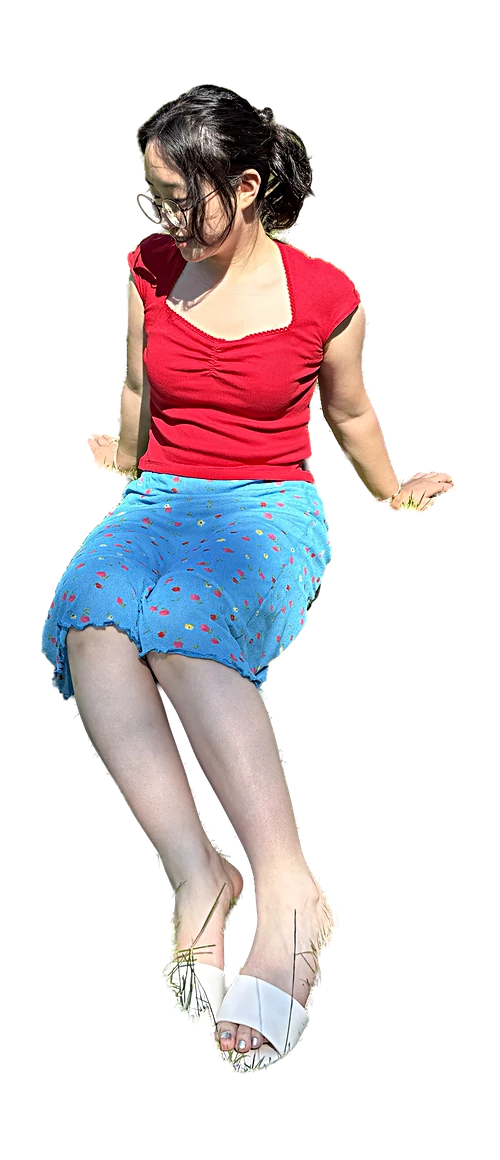
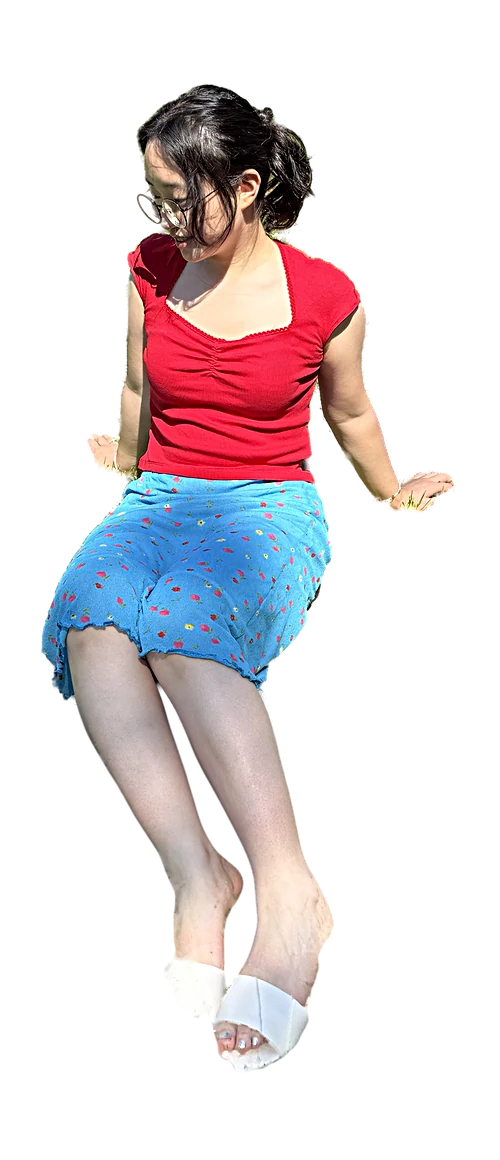
fix: take the grass off the figurine's feet
The owner stood in grass, so the cut kept blades across their feet and
sandals and a hairy outline where tufts were. The new `--grass SHARE`
option (tools/solids/grass.py) cleans that share of the figure from the
soles up: thin lines much darker than round them, and anything green,
are painted over from the colours beside them; strands sticking out of
the outline are opened away and the ragged outline rounded (blur, then
cut again at its middle). A pink shadow (toe gaps) and a white sandal's
faint bluish seam are kept. It fades in over 30 rows, so nothing above
the feet changes. Assets regenerated with --grass 0.38 (short of the
dress, whose print has green in it).

Tests: test_grass.py (blades painted over, toe gap and seam kept, strand
removed with the outline kept, only the share cleaned, input unchanged,
share parsing), the --grass command line end to end, and the served
picture's feet showing no green (140 px on the old picture, 0 now).

Changed region(s): [[0.33, 0.7448, 0.57, 0.931], [0.57, 0.7759, 0.66, 0.9]]

diff --git a/tools/solids/grass.py b/tools/solids/grass.py
@@ -1,0 +1,105 @@
+"""Grass taken off a cut-out's feet.
+
+A photo of someone standing in grass has blades across their feet and tufts round them that the cut keeps as
+part of them: thin lines much darker than the skin and sandals behind them, or green, and a ragged, hairy
+outline where the tufts were. In the figure's bottom part the blades are painted over in the colour round them
+and its outline is rounded off. Not taken for grass: a pink shadow (between toes, round a nail), which is the
+skin's own, and a faint bluish line on a white sandal (its seam, its folds). Where grass hid part of a foot,
+that part is filled in from what is next to it.
+
+Pixel sizes are in the cut, about WORK_LENGTH (1500 px) long.
+"""
+from __future__ import annotations
+
+import argparse
+import math
+
+import numpy as np
+from scipy import ndimage
+
+FINE = 3  # px: lines narrower than about twice this, darker than round them, may be blades
+DARKER = 30.0  # levels darker than round it that a blade is at least
+PINK = 28.0  # a shadow whose red exceeds its green by this much more than its green exceeds its blue is skin's
+BLUISH = 10.0  # levels of blue over red: a white sandal's shade, its seam or a fold ...
+SANDAL_LINE = 80.0  # ... unless it is darker than round it by this much: then it is a blade on the sandal
+GREEN_HUE = (38.0, 170.0)  # degrees: hues from yellow-green to blue-green (skin keeps below some 30) ...
+GREEN_CHROMA = 12.0  # ... at least this colourful (a grey has no hue)
+SPREAD = 1  # px: a blade's mask grows this much, to take its soft edge too
+STRAND = 5  # px: strands narrower than about twice this, sticking out of the outline, go
+ROUND = 4.0  # px: the outline's blur, before it is cut again at its middle (rounds off what tufts left ragged)
+EDGE_RAMP = 0.25  # of the blurred alpha: the width of the recut's antialiased edge
+FADE = 30  # px: above the cleaned share, the clean-up fades out over this many rows
+FILL_SCALES = (1.5, 3.0, 6.0, 12.0, 24.0, 48.0)  # px: paint over from the nearest colours first, then further off
+FILL_COVER = 0.05  # share of known pixels in reach at a scale for that scale to give a pixel its colour
+
+
+def parse_share(text: str) -> float:
+    """A share of the figure's length, above 0 and at most 1; for argparse, so a bad value is a usage error."""
+    try:
+        share = float(text)
+    except ValueError:
+        share = math.nan
+    if not (math.isfinite(share) and 0 < share <= 1):
+        raise argparse.ArgumentTypeError(f"the share of the figure to take the grass off is above 0 and at most 1, not {text!r}")
+    return share
+
+
+def _disk(radius: int) -> np.ndarray:
+    yy, xx = np.mgrid[-radius:radius + 1, -radius:radius + 1]
+    return xx**2 + yy**2 <= radius**2
+
+
+def _hue(rgb: np.ndarray) -> np.ndarray:
+    """Each pixel's hue in degrees (0 for a grey)."""
+    r, g, b = (rgb[..., i] for i in range(3))
+    top, chroma = rgb.max(axis=-1), np.ptp(rgb, axis=-1)
+    with np.errstate(divide="ignore", invalid="ignore"):
+        hue = np.where(top == r, (60 * (g - b) / chroma) % 360, np.where(top == g, 60 * (b - r) / chroma + 120, 60 * (r - g) / chroma + 240))
+    return np.nan_to_num(hue)
+
+
+def blades(rgb: np.ndarray, alpha: np.ndarray) -> np.ndarray:
+    """Where grass lies over the figure (bool): thin dark lines that are neither skin's pink shadow nor a sandal's
+    faint seam, and anything green; grown by SPREAD. Past the figure's middle (alpha 0.5) a pixel's darkness is its
+    nearest inside pixel's."""
+    r, g, b = (rgb[..., i] for i in range(3))
+    light = rgb @ np.array([0.2126, 0.7152, 0.0722])
+    _, (iy, ix) = ndimage.distance_transform_edt(alpha <= 0.5, return_indices=True)
+    light = light[iy, ix]  # outside, the light of the figure beside it: its own outline is no dark line
+    darker = ndimage.grey_closing(light, footprint=_disk(FINE)) - light
+    pink = (r - g) > (g - b) + PINK
+    seam = (b > r + BLUISH) & (darker < SANDAL_LINE)
+    hue = _hue(rgb)
+    green = (hue > GREEN_HUE[0]) & (hue < GREEN_HUE[1]) & (np.ptp(rgb, axis=-1) > GREEN_CHROMA)
+    return ndimage.binary_dilation(((darker > DARKER) & ~pink & ~seam) | green, _disk(SPREAD))
+
+
+def painted_over(rgb: np.ndarray, where: np.ndarray, known: np.ndarray) -> np.ndarray:
+    """`rgb` with the pixels `where` painted in the colours of the `known` pixels nearest them."""
+    out, todo = rgb.copy(), where.copy()
+    for sigma in FILL_SCALES:
+        weight = ndimage.gaussian_filter(known.astype(float), sigma)
+        reach = todo & (weight > FILL_COVER)
+        colour = np.stack([ndimage.gaussian_filter(rgb[..., i] * known, sigma) for i in range(3)], axis=-1)
+        out[reach] = colour[reach] / weight[reach, None]
+        todo &= ~reach
+    return out
+
+
+def rounded(alpha: np.ndarray) -> np.ndarray:
+    """The outline with its thin strands cut off and its ragged stretches rounded (a notch fills in a little)."""
+    opened = ndimage.grey_opening(alpha, footprint=_disk(STRAND))
+    return np.clip((ndimage.gaussian_filter(opened, ROUND) - 0.5) / EDGE_RAMP + 0.5, 0.0, 1.0)
+
+
+def without_grass(rgba: np.ndarray, share: float) -> np.ndarray:
+    """The upright cut (RGBA, alpha 0–255) with the grass taken off the bottom `share` of the figure's length."""
+    rgb, alpha = np.asarray(rgba, float)[..., :3], np.asarray(rgba, float)[..., 3] / 255
+    rows, _ = np.nonzero(alpha > 0.5)
+    start = rows.max() - share * (rows.max() - rows.min())
+    weight = np.clip((np.arange(alpha.shape[0]) - start) / FADE, 0.0, 1.0)[:, None]
+    out_alpha = alpha + weight * (rounded(alpha) - alpha)
+    grass = blades(rgb, alpha) & (weight > 0) & ((alpha > 0) | (out_alpha > 0))
+    painted = painted_over(rgb, grass, (alpha > 0.95) & ~grass)
+    out_rgb = rgb + weight[..., None] * (painted - rgb)
+    return np.concatenate([out_rgb, out_alpha[..., None] * 255], axis=-1)

diff --git a/tools/tests/test_grass.py b/tools/tests/test_grass.py
@@ -1,0 +1,87 @@
+import argparse
+
+import numpy as np
+import pytest
+from scipy import ndimage
+
+from solids.grass import parse_share, without_grass
+
+SKIN = (240.0, 215.0, 200.0)
+SANDAL = (220.0, 232.0, 246.0)
+DRY = (125.0, 119.0, 85.0)  # a dry blade, as on the owner's ankle
+GREEN = (70.0, 140.0, 40.0)
+DARK = (89.0, 74.0, 78.0)  # a blade in shadow
+TOE_GAP = (142.0, 86.0, 82.0)  # the pink shadow between two toes
+SEAM = (186.0, 200.0, 221.0)  # the sandal strap's faint seam
+
+
+def feet_scene():
+    """A leg (x 40–160, y 0–300) on nothing, a sandal across its foot (y 200–260) with its seam at x 120, a toe gap
+    at x 70 below it, a strand of grass sticking out of its left side, and three blades across it."""
+    yy, xx = np.mgrid[0:300, 0:200]
+    leg = (xx >= 40) & (xx < 160)
+    strand = (yy >= 150) & (yy < 152) & (xx >= 10) & (xx < 40)
+    rgb = np.zeros((300, 200, 3)) + SKIN
+    rgb[(yy >= 200) & (yy < 260)] = SANDAL
+    rgb[(yy >= 200) & (yy < 260) & (np.abs(xx - 120) <= 1)] = SEAM
+    rgb[(yy >= 262) & (np.abs(xx - 70) <= 1)] = TOE_GAP
+    blades = {
+        "dry": np.abs((xx - 50) - (yy - 120)) <= 1,  # diagonal
+        "green": (np.abs(yy - 180) <= 1) & (xx >= 60) & (xx < 150),
+        "dark": (np.abs(xx - 100) <= 1) & (yy >= 140) & (yy < 280),
+    }
+    for name, colour in (("dry", DRY), ("green", GREEN), ("dark", DARK)):
+        rgb[blades[name] & leg & (yy >= 110)] = colour
+    rgb[strand] = GREEN
+    alpha = (leg | strand).astype(float)
+    return np.concatenate([rgb, alpha[..., None] * 255], axis=-1), {k: v & leg & (yy >= 110) for k, v in blades.items()}
+
+
+def test_blades_across_the_feet_are_painted_over_in_the_colour_round_them():
+    rgba, blades = feet_scene()
+    out = without_grass(rgba, share=0.7)
+    on_skin = (np.arange(300)[:, None] >= 130) & (np.arange(300)[:, None] < 190)  # clear of the fade above the feet and the sandal
+    for name, blade in blades.items():
+        off = np.abs(out[..., :3][blade & on_skin] - SKIN).max()
+        assert off < 12, f"the {name} blade still shows on the skin, {off:.0f} levels off it"
+    away = ~np.any([ndimage.binary_dilation(b, iterations=6) for b in blades.values()], axis=0)
+    away &= rgba[..., 3] == 255
+    away[140:160, :50] = False  # where the strand was
+    assert (out[..., :3][away] == rgba[..., :3][away]).all(), "the skin and sandal away from the blades are as they were"
+
+
+def test_a_toe_gap_s_pink_shadow_and_a_sandal_s_faint_seam_stay():
+    rgba, _ = feet_scene()
+    out = without_grass(rgba, share=0.7)
+    for name, where in (("toe gap", np.s_[265:295, 70]), ("seam", np.s_[205:255, 120])):
+        assert (out[where][:, :3] == rgba[where][:, :3]).all(), f"the {name} was taken for grass"
+
+
+def test_a_strand_sticking_out_of_the_outline_goes_but_the_outline_stays():
+    rgba, _ = feet_scene()
+    a = without_grass(rgba, share=0.7)[..., 3] / 255
+    assert a[150:152, 10:34].max() < 0.05, "the strand of grass is left sticking out"
+    rows = np.r_[120:140, 230:250]
+    assert a[rows, 44].min() > 0.99 and a[rows, 36].max() < 0.01, "the leg's straight side is kept where it was"
+
+
+def test_only_the_bottom_share_of_the_figure_is_cleaned():
+    rgba, blades = feet_scene()
+    out = without_grass(rgba, share=0.3)  # from y 210 down
+    assert (out[:200] == rgba[:200]).all(), "above the feet nothing changes"
+    rows = np.arange(300)[:, None]
+    assert np.abs(out[..., :3][blades["dark"] & (rows >= 245) & (rows < 258)] - SANDAL).max() < 12, "the feet are cleaned"
+
+
+def test_the_input_is_not_changed():
+    rgba, _ = feet_scene()
+    before = rgba.copy()
+    without_grass(rgba, share=0.7)
+    assert (rgba == before).all()
+
+
+def test_the_share_of_the_figure_to_clean_is_a_number_above_0_up_to_1():
+    assert parse_share("0.38") == 0.38 and parse_share("1") == 1.0
+    for bad in ("0", "-0.1", "1.5", "nan", "inf", "x", ""):
+        with pytest.raises(argparse.ArgumentTypeError):
+            parse_share(bad)

diff --git a/tools/prepare_figurine.py b/tools/prepare_figurine.py
@@ -1,6 +1,7 @@
 """The owner's figurine in its clear bag, from the picture they chose.
 
     python tools/prepare_figurine.py <chosen.png> assets/figurine [--turn auto|0|90|-90|180] [--u2net PATH]
+        [--lens X,Y,A,B,DEG] [--grass SHARE]
 
 Cut the figure out of its background: a colour key on a plain backdrop (held to the
 u2net model's outline when it is given); on a busy one, such as a photo of the owner on
@@ -44,6 +45,7 @@ from solids.cutout import (  # noqa: E402
     without_specks,
 )
 from solids.finish import fit_canvas, sharpen  # noqa: E402
+from solids.grass import parse_share, without_grass  # noqa: E402
 from solids.lens import Lens, drawn_lens, parse_lens  # noqa: E402
 from solids.relief import relief  # noqa: E402
 from solids.wrap import bag  # noqa: E402
@@ -143,9 +145,10 @@ def turned(rgba: np.ndarray, turn: str) -> np.ndarray:
     return np.rot90(rgba, quarters)
 
 
-def cut_out(source: Path, u2net: Path | None, turn: str, lenses: Sequence[Lens] = ()) -> np.ndarray:
+def cut_out(source: Path, u2net: Path | None, turn: str, lenses: Sequence[Lens] = (), grass: float = 0.0) -> np.ndarray:
     """The figure, cut out, its edge cleaned, cropped and stood upright: RGBA float. `lenses` (in the photo's
-    pixels, the right way up) are the far lenses of glasses the cut left out, drawn back behind the figure."""
+    pixels, the right way up) are the far lenses of glasses the cut left out, drawn back behind the figure; with
+    `grass` (a share of its length), the grass is taken off that much of the figure from its soles up."""
     picture = load(source)
     pixels = np.asarray(picture)
     if is_plain(pixels):
@@ -164,7 +167,8 @@ def cut_out(source: Path, u2net: Path | None, turn: str, lenses: Sequence[Lens] 
         colour, alpha = drawn_lens(colour, alpha, rgb, lens.moved(origin, scale))
     ys, xs = np.nonzero(alpha > EDGE)
     cut = np.concatenate([colour, alpha[..., None] * 255], axis=-1)[ys.min():ys.max() + 1, xs.min():xs.max() + 1]
-    return turned(cut, turn)
+    upright = turned(cut, turn)
+    return without_grass(upright, grass) if grass else upright
 
 
 def place(cut: np.ndarray) -> np.ndarray:
@@ -208,12 +212,15 @@ def main(argv: list[str] | None = None) -> int:
     parser.add_argument("--lens", type=parse_lens, action="append", default=[], metavar="X,Y,A,B,DEG",
                         help="a far lens of glasses the cut leaves out (it shows the background through it), to draw back: "
                              "its centre and semi-axes in the photo's pixels, the right way up, and its long axis's tilt in degrees")
+    parser.add_argument("--grass", type=parse_share, default=0.0, metavar="SHARE",
+                        help="take the grass off the figure's feet (blades across them, tufts round them) over this share of "
+                             "its length from the soles up, above 0 and at most 1 (default: none)")
     args = parser.parse_args(argv)
     if not args.chosen.exists():
         parser.error(f"no such picture: {args.chosen}")
     args.out.mkdir(parents=True, exist_ok=True)
 
-    figure = place(cut_out(args.chosen, args.u2net, args.turn, args.lens))
+    figure = place(cut_out(args.chosen, args.u2net, args.turn, args.lens, args.grass))
     level = figure_level(figure[..., 3] / 255, figure[..., :3])
     film, film_level = bag(figure.shape[1::-1], figure[..., 3], level, px=PX, figure_height=HEIGHT, clearance=CLEARANCE,
                            keep_off=head_room(figure[..., 3] / 255))

diff --git a/tools/tests/test_prepare_figurine.py b/tools/tests/test_prepare_figurine.py
@@ -141,6 +141,35 @@ def test_the_command_line_takes_a_lens_for_the_far_side_of_the_glasses(tmp_path,
     assert wire(made[0]) == 0 and wire(with_lens) > 300, f"{wire(with_lens)} px of wire"
 
 
+BLADE = (60.0, 60.0, 30.0)
+
+
+def bladed_png(tmp_path):
+    """The lilac figure with a blade of grass across its feet (its left end, which is turned to be its bottom),
+    the blade's ends sticking out past its outline."""
+    path = figure_png(tmp_path, LILAC)
+    rgb = np.asarray(Image.open(path)).copy()
+    rgb[100:300, 120:122] = BLADE
+    Image.fromarray(rgb).save(path)
+    return path
+
+
+def test_the_command_line_takes_the_grass_off_the_figure_s_feet(tmp_path):
+    blade = lambda pic: ((pic[..., 3] > 200) & (np.abs(pic[..., :3].astype(float) - BLADE).max(axis=-1) < 30)).sum()  # noqa: E731
+    pictures = {}
+    for name, extra in (("kept", []), ("off", ["--grass", "0.3"])):
+        assert pf.main([str(bladed_png(tmp_path)), str(tmp_path / name), *extra]) == 0
+        pictures[name] = np.asarray(Image.open(tmp_path / name / "figurine.webp"))
+    assert blade(pictures["kept"]) > 40, f"{blade(pictures['kept'])} px of blade without --grass"
+    assert blade(pictures["off"]) < 10, f"{blade(pictures['off'])} px of blade left with --grass"
+
+
+def test_the_command_line_refuses_a_share_of_grass_outside_0_to_1(tmp_path, capsys):
+    with pytest.raises(SystemExit):
+        pf.main([str(figure_png(tmp_path, LILAC)), str(tmp_path / "out"), "--grass", "1.5"])
+    assert "at most 1" in capsys.readouterr().err, "the error says what a share may be"
+
+
 def test_the_figure_s_top_is_level_but_for_its_rounded_edge_so_a_face_near_the_outline_is_not_sunk():
     yy, xx = np.mgrid[0:200, 0:200]
     head = (np.hypot(xx - 100, yy - 100) < 60).astype(float)  # 15 units across its radius

diff --git a/tools/tests/test_figurine_asset.py b/tools/tests/test_figurine_asset.py
@@ -1,0 +1,18 @@
+"""The figurine picture the site serves, as made from the owner's photo (see the README's command)."""
+from pathlib import Path
+
+import numpy as np
+from PIL import Image
+
+PICTURE = Path(__file__).resolve().parents[2] / "assets" / "figurine" / "figurine.webp"
+FEET = 0.3  # share of the figure's length, from its soles up (the dress, green-flowered, starts above some 0.4)
+
+
+def test_the_figurine_s_feet_show_no_grass():
+    pixels = np.asarray(Image.open(PICTURE).convert("RGBA")).astype(float)
+    rgb, alpha = pixels[..., :3], pixels[..., 3]
+    rows, _ = np.nonzero(alpha > 128)
+    feet = (alpha > 128) & (np.arange(alpha.shape[0])[:, None] >= rows.max() - FEET * (rows.max() - rows.min()))
+    r, g, b = (rgb[..., i] for i in range(3))
+    green = (g > r + 10) & (g > b + 10)  # skin, a white sandal and its shadows are never greener than red and blue
+    assert (green & feet).sum() < 20, f"{(green & feet).sum()} px of green grass on the figurine's feet"

diff --git a/README.md b/README.md
@@ -130,7 +130,7 @@ the head, so no glint crosses the face and no milky veil greys the photo.
    plain backdrop works too.
 2. Make the four pictures from it:
 
-       python tools/prepare_figurine.py F:/parcel-art/figure.jpg assets/figurine --u2net F:/portrait-collage/models/u2netp.onnx --lens 2422,1377,52.4,19.1,52
+       python tools/prepare_figurine.py F:/parcel-art/figure.jpg assets/figurine --u2net F:/portrait-collage/models/u2netp.onnx --lens 2422,1377,52.4,19.1,52 --grass 0.38
 
    It turns a phone photo the right way up, then cuts you out. On a busy
    background (grass, a room) the u2net model finds you, the photo is
@@ -154,6 +154,16 @@ the head, so no glint crosses the face and no milky veil greys the photo.
    semi-axes in the photo's pixels, the right way up as a viewer shows it,
    and the tilt of its first axis from the x axis in degrees (towards y).
    The values above are for `figure.jpg`; give `--lens` again for a second lens.
+
+   Standing in grass, you have blades across your feet and tufts round them
+   that the cut keeps as part of you. `--grass SHARE` takes them off that
+   share of your length from the soles up (0.38 for `figure.jpg`: up the
+   shins, short of the dress, whose print has green in it): thin lines much
+   darker than the skin or sandal behind them, and anything green, are
+   painted over in the colour round them, and the ragged outline the tufts
+   left is rounded off. A pink shadow (between toes) and a sandal's faint
+   seam are kept. Where grass hid part of a foot, it is filled in from what
+   is next to it.
 
 **The food.** It comes from your photos, cut out without brands:
 
